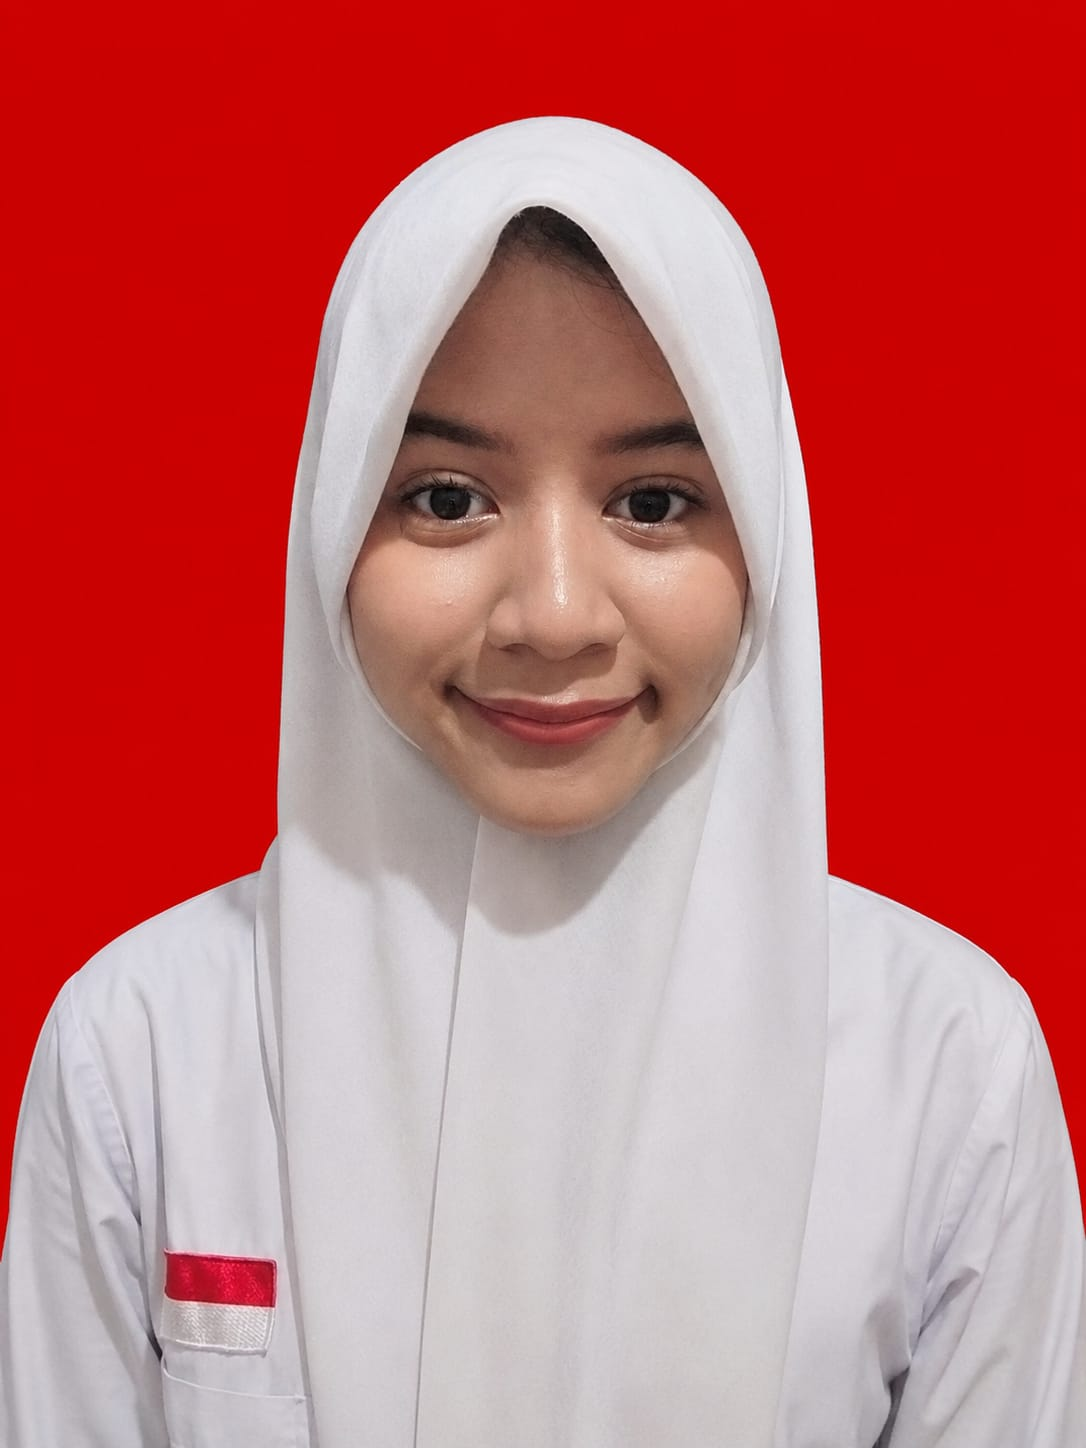
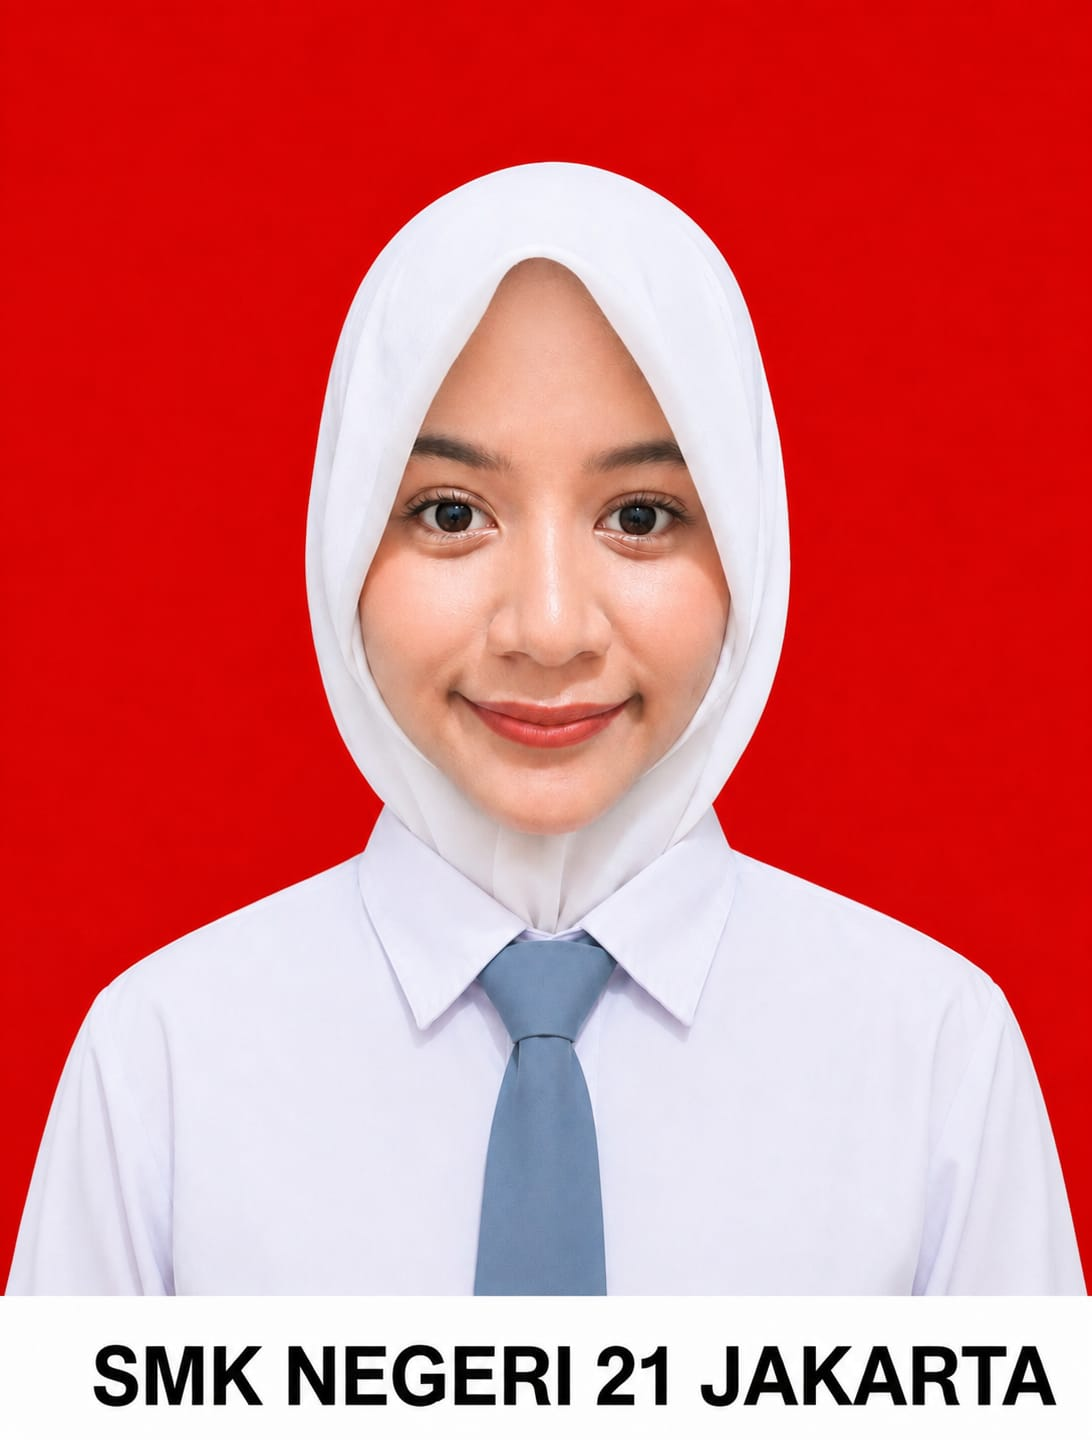
Update portfolio 3 sept 2026

diff --git a/script.js b/script.js
@@ -1,6 +1,49 @@
-// Data Projects (10 Best Projects - Urutan Prioritas)
+// Data Projects (13 Projects - Urutan Prioritas)
 const projects = [
-    // ====== 7 PROYEK YANG DIROMBAK (NAIK KE ATAS) ======
+    // ====== 3 PROYEK BARU (NAIK KE ATAS) ======
+    {
+        title: "Recyclefy",
+        desc: `Recyclefy adalah platform pengelolaan sampah berbasis komunitas dengan sistem multi-user yang terdiri dari user, admin wilayah, dan super admin. Aplikasi dilengkapi dengan fitur autentikasi login dan registrasi berdasarkan role serta sistem tukar sampah jadi poin. User dapat menyetorkan sampah ke 3 wilayah (Kemayoran, Sumur Batu, Cempaka Putih) dan mendapatkan poin yang bisa ditukar dengan produk daur ulang.
+
+Admin wilayah memiliki dashboard yang menampilkan informasi total sampah masuk hari ini, total sampah keseluruhan, total barang diproduksi, barang menunggu persetujuan super admin, dan barang sudah di-ACC. Selain itu, admin wilayah dapat melihat riwayat sampah dari user, mengelola stok sampah, memproduksi barang daur ulang berdasarkan resep dari super admin, mengirim barang produksi ke super admin, serta melihat riwayat produksi dengan tiga status yaitu tersedia, pending, dan selesai.
+
+Super admin memiliki dashboard lengkap yang menampilkan total user, total admin, barang nunggu ACC, total stok, total transaksi, total koin, total jenis sampah, dan total resep. Super admin dapat mengelola seluruh user, mengelola jenis sampah melalui fitur CRUD, mengelola resep daur ulang dengan bahan baku dari jenis sampah, mengelola wilayah, mengonfirmasi kiriman barang dari admin wilayah, dan mengelola transaksi pembelian user dengan tiga status yaitu dipesan, dikirim, dan selesai.
+
+Pada sisi user, tersedia dashboard aktivitas yang menampilkan total poin, poin terpakai, total setor, total unit sampah, dan total berat. User dapat melihat daftar produk di toko dengan fitur pencarian dan filter harga, melakukan pemesanan produk dengan poin yang dimiliki, melihat riwayat setor dan riwayat pembelian, serta mengelola akun melalui fitur ubah nama, no telepon, alamat, dan kata sandi. Sistem akan menghitung total poin secara otomatis saat user menyetorkan sampah dan mengurangi poin saat user membeli produk. Stok barang akan berkurang secara otomatis setelah pembelian dan bertambah saat super admin mengonfirmasi kiriman dari admin wilayah.`,
+        tech: "Next.js, PostgreSQL, Prisma",
+        github: "https://github.com/zegow8/recyclefy",
+        demo: null,
+        images: ["assets/rec1.png", "assets/rec2.png", "assets/rec3.png"],
+        filter: "nextjs"
+    },
+    {
+        title: "Budgetify",
+        desc: `Budgetify adalah aplikasi pengelola keuangan pribadi berbasis web yang dikembangkan dengan PHP Native dan MySQL. Aplikasi ini dirancang untuk membantu individu mencatat, memantau, dan mengontrol arus keuangan sehari-hari secara praktis dan terstruktur.
+
+Fitur unggulan aplikasi ini meliputi sistem autentikasi pengguna (registrasi dan login), manajemen transaksi (CRUD pemasukan dan pengeluaran), statistik visual berbentuk grafik pie chart per kategori, serta dompet digital yang membedakan saldo tunai (cash) dan saldo elektronik, dilengkapi dengan fitur pemindahan dana antar dompet. Pengguna juga dapat membuat kategori transaksi secara mandiri sesuai kebutuhan, serta melakukan filtering data berdasarkan bulan, kategori, rentang tanggal, dan kata kunci.
+
+Dari sisi teknis, aplikasi ini menggunakan PDO untuk koneksi database yang aman, jQuery & AJAX untuk interaksi tanpa reload halaman, serta Chart.js untuk visualisasi data. Desain antarmuka dibangun dengan pendekatan responsive sehingga optimal diakses melalui laptop maupun perangkat mobile. Aplikasi ini juga dilengkapi dengan fitur auto-detect environment, sehingga dapat berjalan baik di lingkungan localhost maupun server production.`,
+        tech: "PHP Native, MySQL, JavaScript",
+        github: "https://github.com/zegow8/budgetify",
+        demo: "http://budgetify.free.nf/index.php",
+        images: ["assets/bud1.png", "assets/bud2.png", "assets/bud3.png", "assets/bud4.png"],
+        filter: "phpnative"
+    },
+    {
+        title: "Portofolio Pancasila Lyta",
+        desc: `Portofolio ini merupakan aplikasi web berbasis PHP Native dan MySQL yang dirancang untuk mendokumentasikan penerapan nilai-nilai Pancasila dalam kegiatan sehari-hari. Aplikasi dikembangkan dengan sistem multi-user yang terdiri dari dua peran, yaitu admin dan user, dengan fitur autentikasi login berbasis role untuk memastikan keamanan akses data.
+
+Pada sisi admin, tersedia dashboard yang menampilkan informasi statistik seperti total kegiatan, total refleksi, dan total penilaian yang telah dibuat. Admin dapat mengelola seluruh data kegiatan harian melalui fitur CRUD (Create, Read, Update, Delete), mengunggah dokumentasi berupa gambar, memberikan penilaian mingguan beserta alasan, serta menulis refleksi bulanan. Sistem juga dilengkapi dengan fitur pencarian data berdasarkan bulan dan tahun, serta tampilan kalender interaktif yang menunjukkan aktivitas per tanggal beserta keterangan minggu ke-berapa.
+
+Pada sisi pengguna (user), tersedia tampilan portofolio yang menampilkan data diri, foto profil, logo dan sila Pancasila, serta laporan kegiatan bulanan dalam bentuk tabel mingguan. Pengguna dapat melihat seluruh data kegiatan, dokumentasi, penilaian, dan refleksi yang telah diinput oleh admin tanpa dapat mengubah atau menghapus data. Sistem juga menampilkan kalender yang menunjukkan tanggal-tanggal yang telah terisi data, sehingga memudahkan pengguna dalam melihat pola aktivitas selama satu bulan penuh.`,
+        tech: "PHP Native, MySQL, CSS Native",
+        github: "https://github.com/zegow8/Portofolio-Pancasila-Lyta",
+        demo: "http://porto-pancasila-lyta.free.nf/?i=1",
+        images: ["assets/portopsila1.png", "assets/portopsila2.png", "assets/portopsila3.png"],
+        filter: "phpnative"
+    },
+
+    // ====== 7 PROYEK LAMA (ROMBAK) ======
     {
         title: "Raiental",
         desc: `Platform penyewaan website dan game berbasis web dengan sistem multi-user yang terdiri dari admin dan user. Aplikasi dilengkapi dengan fitur autentikasi login dan registrasi berdasarkan role serta sistem penyewaan digital dengan pilihan durasi per jam, hari, minggu, dan bulan.
@@ -189,8 +232,31 @@ const designs = [
     }
 ];
 
-// Data Games (5 Games)
+// Data Games (6 Games)
 const games = [
+    // ====== 1 GAME BARU (NAIK KE ATAS) ======
+    {
+        title: "Rain Pairs Draft",
+        desc: `rain pairs merupakan game memory card bertema teknologi yang dikembangkan sebagai permainan untuk menguji kemampuan pemain dalam mengingat posisi dan mencocokkan pasangan kartu. game ini menggunakan berbagai ikon dan nama teknologi seperti ai tools, bahasa pemrograman, serta software development sebagai elemen kartu.
+
+pada awal permainan, pemain diberikan kesempatan untuk melihat susunan kartu sebelum seluruh kartu ditutup. setelah permainan dimulai, pemain harus membuka dua kartu secara bergantian dan mencari kartu yang memiliki pasangan yang sama. apabila kedua kartu cocok, pasangan tersebut akan tetap terbuka dan pemain mendapatkan poin. apabila tidak cocok, kartu akan kembali tertutup sehingga pemain perlu mengingat posisi kartu yang sebelumnya telah dibuka.
+
+untuk membuat gameplay lebih menantang, rain pairs memiliki sistem combo yang memberikan tambahan skor ketika pemain berhasil menemukan pasangan secara berturut-turut. kesalahan dalam mencocokkan kartu akan mereset combo dan memberikan pengurangan skor. permainan juga dibatasi dengan timer 180 detik, sehingga pemain harus menyelesaikan seluruh pasangan sebelum waktu habis.
+
+game ini terdiri dari 24 kartu atau 12 pasangan, serta dilengkapi dengan sistem scoring, combo, timer, kondisi menang/kalah, input nama pemain, dan leaderboard untuk menampilkan peringkat berdasarkan skor yang diperoleh.
+
+secara keseluruhan, rain pairs dirancang untuk menggabungkan konsep permainan memory sederhana dengan elemen kompetitif melalui manajemen waktu, strategi mengingat posisi kartu, dan sistem combo, sehingga pemain tidak hanya bergantung pada keberuntungan saat membuka kartu.
+platform: html5
+genre: card / memory game
+jumlah kartu: 24 kartu / 12 pasangan
+fitur utama: timer, scoring, combo system, leaderboard, win/lose system, player name input.`,
+        tech: "GDevelop 5",
+        github: null,
+        demo: "https://zegow8.itch.io/rain-pairs",
+        img: "assets/pai1.png",
+        filter: "gdevelop"
+    },
+    // ====== 5 GAME LAMA ======
     {
         title: "MEOWMORY GAME",
         desc: "Game memory match 4×4 dengan gambar kucing. Pemain harus mencocokkan 8 pasang kartu dalam waktu 60 detik. Setiap kartu menampilkan foto kucing yang unik, dan pemain ditantang untuk mengingat posisi setiap gambar. Fitur: timer 60 detik, hitungan langkah, high score tersimpan di localStorage, dan kontrol tap/klik yang responsif di desktop maupun HP.",
@@ -238,6 +304,22 @@ const games = [
     }
 ];
 
+// Data Certifications
+const certifications = [
+    {
+        title: "TECC (Test of English Communication Competency)",
+        desc: "Score: 650 (setara TOEIC 650) – LCC Prediction, Agustus 2025",
+        detail: "Listening: 360 | Reading: 290",
+        imgFile: "assets/TECC-Lyta.png"
+    },
+    {
+        title: "UKBI (Uji Kemahiran Berbahasa Indonesia)",
+        desc: "Skor: 673 – Peringkat: Sangat Unggul",
+        detail: "Mendengarkan: 605 | Merespons Kaidah: 704 | Membaca: 710",
+        imgFile: "assets/UKBI lyta.png"
+    }
+];
+
 // ============ RENDER PROJECTS ============
 function renderProjects(filter = 'all') {
     const container = document.getElementById('projects-grid');
@@ -276,7 +358,7 @@ function renderProjects(filter = 'all') {
         const isLong = project.desc.length > 120;
 
         return `
-            <div class="project-card hidden-item delay-${(index % 10) + 1}">
+            <div class="project-card hidden-item delay-${(index % 13) + 1}">
                 <h3 class="project-title">${project.title}</h3>
                 ${imageHtml}
                 <div class="project-desc" id="desc-${index}">
@@ -336,9 +418,8 @@ function renderProjects(filter = 'all') {
         });
     });
 
-    // Trigger animation after render
     setTimeout(() => {
-        document.querySelectorAll('.project-card, .design-card, .game-card').forEach(el => {
+        document.querySelectorAll('.project-card').forEach(el => {
             el.classList.add('show-item');
         });
     }, 50);
@@ -466,6 +547,29 @@ function toggleGameDesc(index) {
     }
 }
 
+// ============ RENDER CERTIFICATIONS ============
+function renderCertifications() {
+    const container = document.getElementById('cert-grid');
+    if (!container) return;
+
+    container.innerHTML = certifications.map((cert, index) => `
+        <div class="cert-card hidden-item delay-${(index % 2) + 1}">
+            <img src="${cert.imgFile}" alt="${cert.title}" class="cert-img" onclick="openLightbox(this.src)">
+            <div class="cert-info">
+                <h3 class="cert-title">${cert.title}</h3>
+                <p class="cert-desc">${cert.desc}</p>
+                <p class="cert-detail">${cert.detail}</p>
+            </div>
+        </div>
+    `).join('');
+
+    setTimeout(() => {
+        document.querySelectorAll('.cert-card').forEach(el => {
+            el.classList.add('show-item');
+        });
+    }, 50);
+}
+
 // ============ FILTER FUNCTIONS ============
 function setupFilters() {
     // Projects filter
@@ -508,7 +612,6 @@ function setupScrollAnimation() {
         entries.forEach(entry => {
             if (entry.isIntersecting) {
                 entry.target.classList.add('show');
-                // Untuk items dengan stagger, tambahin class show-item dengan delay
                 const items = entry.target.querySelectorAll('.hidden-item');
                 items.forEach((item, index) => {
                     setTimeout(() => {
@@ -522,7 +625,6 @@ function setupScrollAnimation() {
         rootMargin: '0px 0px -50px 0px'
     });
 
-    // Observe setiap section
     document.querySelectorAll('.section .content').forEach(content => {
         content.classList.add('hidden');
         observer.observe(content);
@@ -615,23 +717,20 @@ function setupScrollHint() {
 
 // ============ EVENT LISTENERS ============
 document.addEventListener('DOMContentLoaded', () => {
-    // Render awal
     renderProjects('all');
     renderDesigns('all');
     renderGames('all');
+    renderCertifications();
     
-    // Setup
     setupFilters();
     setupScrollAnimation();
     setupNavbar();
     setupSmoothScroll();
     setupScrollHint();
     
-    // Active link on scroll
     window.addEventListener('scroll', updateActiveLink);
     updateActiveLink();
     
-    // Lightbox close
     const lightbox = document.getElementById('lightbox');
     const closeBtn = document.querySelector('.close-lightbox');
     if (closeBtn) {

diff --git a/index.html b/index.html
@@ -53,7 +53,7 @@
                         <img src="assets/lytacv.png" alt="Earlyta" id="profile-img" onerror="this.src='https://via.placeholder.com/300x300?text=Earlyta'">
                     </div>
                     <div class="about-text">
-                        <p>Saya adalah siswa rekayasa perangkat lunak yang saat ini duduk di bangku kelas 11. Berfokus pada pengembangan website dan aplikasi. Memiliki ketertarikan pada frontend maupun backend development, saya senang membangun sistem yang tidak hanya berjalan dengan baik, tetapi juga memiliki tampilan yang nyaman digunakan.</p>
+                        <p>Saya adalah siswa rekayasa perangkat lunak yang saat ini duduk di bangku kelas 12. Berfokus pada pengembangan website dan aplikasi. Memiliki ketertarikan pada frontend maupun backend development, saya senang membangun sistem yang tidak hanya berjalan dengan baik, tetapi juga memiliki tampilan yang nyaman digunakan.</p>
                         <p>Selama belajar dan mengembangkan proyek pribadi, saya telah mengerjakan berbagai aplikasi seperti sistem kasir, aplikasi manajemen data, website informatif, dan aplikasi produktivitas. Saat ini saya terus memperdalam kemampuan di bidang web development, database, dan pengembangan aplikasi sambil membangun portofolio yang mencerminkan kemampuan serta kreativitas saya.</p>
                     </div>
                 </div>
@@ -111,7 +111,7 @@
         <!-- PROJECTS -->
         <section id="projects" class="section">
             <div class="content">
-                <h2 class="section-title">10 Best Projects</h2>
+                <h2 class="section-title">13 Best Projects</h2>
                 <div class="filter-container">
                     <button class="filter-btn active" data-filter="all">ALL</button>
                     <button class="filter-btn" data-filter="nextjs">Next.js</button>
@@ -154,16 +154,7 @@
         <section id="certification" class="section">
             <div class="content">
                 <h2 class="section-title">Certification</h2>
-                <div class="cert-wrapper">
-                    <div class="cert-card">
-                        <img src="assets/TECC-Lyta.png" alt="TECC Certificate" class="cert-img" onclick="openLightbox(this.src)">
-                        <div class="cert-info">
-                            <h3 class="cert-title">TECC (Test of English Communication Competency)</h3>
-                            <p class="cert-desc">Score: 650 (setara TOEIC 650) – LCC Prediction, Agustus 2025</p>
-                            <p class="cert-detail">Listening: 360 | Reading: 290</p>
-                        </div>
-                    </div>
-                </div>
+                <div class="cert-grid" id="cert-grid"></div>
             </div>
         </section>
 
@@ -184,7 +175,7 @@
 
     <!-- FOOTER -->
     <footer class="footer">
-        <p>last update on 16 June 2026</p>
+        <p>last update on 3 September 2026</p>
     </footer>
 
     <!-- Lightbox untuk zoom in gambar -->

diff --git a/style.css b/style.css
@@ -238,7 +238,6 @@ body {
     transform: translateY(0);
 }
 
-/* Stagger effect untuk grid items */
 .hidden-item {
     opacity: 0;
     transform: translateY(40px) scale(0.96);
@@ -250,7 +249,6 @@ body {
     transform: translateY(0) scale(1);
 }
 
-/* Delay untuk stagger effect */
 .delay-1 { transition-delay: 0.05s; }
 .delay-2 { transition-delay: 0.10s; }
 .delay-3 { transition-delay: 0.15s; }
@@ -261,6 +259,9 @@ body {
 .delay-8 { transition-delay: 0.40s; }
 .delay-9 { transition-delay: 0.45s; }
 .delay-10 { transition-delay: 0.50s; }
+.delay-11 { transition-delay: 0.55s; }
+.delay-12 { transition-delay: 0.60s; }
+.delay-13 { transition-delay: 0.65s; }
 
 /* Filter buttons animation */
 .filter-btn {
@@ -681,10 +682,13 @@ body {
     transform: scale(1.12);
 }
 
-/* ========= CERTIFICATION ========= */
-.cert-wrapper {
-    display: flex;
-    justify-content: center;
+/* ========= CERTIFICATION GRID ========= */
+.cert-grid {
+    display: grid;
+    grid-template-columns: repeat(2, 1fr);
+    gap: 32px;
+    max-width: 1000px;
+    margin: 0 auto;
 }
 
 .cert-card {
@@ -692,7 +696,6 @@ body {
     border-radius: 24px;
     overflow: hidden;
     box-shadow: 0 18px 32px rgba(0, 0, 0, 0.12);
-    max-width: 500px;
     transition: all 0.35s ease;
 }
 
@@ -954,6 +957,10 @@ body {
         gap: 24px;
     }
     .games-grid {
+        grid-template-columns: 1fr;
+        gap: 24px;
+    }
+    .cert-grid {
         grid-template-columns: 1fr;
         gap: 24px;
     }
